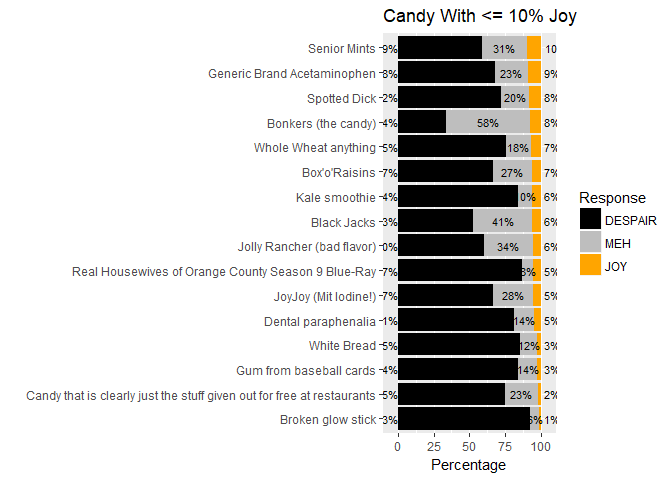
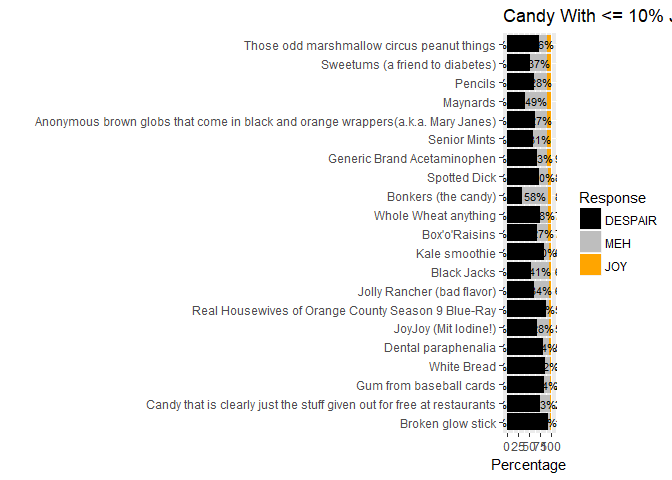
Update Intro

Changed region(s): [[0.0312, 0.0, 1.0, 1.0]]

diff --git a/candy_analysis.md b/candy_analysis.md
@@ -1,6 +1,6 @@
-Thanks to David Ng (and Jenny Bryan for sharing) at UBC publishing the candy hierarchy data (<http://www.scq.ubc.ca/so-much-candy-data-seriously/>). One candy really stood out to me that I'm interested to learn more about it. Candy Corn, as the signature candy of Halloween, I have spent my life time questing the reason that people like it because I thought most people love it.
+Thanks to David Ng (and Jenny Bryan for sharing) at UBC publishing the candy hierarchy data (<http://www.scq.ubc.ca/so-much-candy-data-seriously/>). One candy really stood out to me that I'm interested to learn more about it. Candy Corn, as the signature candy of Halloween, I have spent my life time questing the reason that people like it because I really do not understand.
 
-I'm glad to learn that I'm not alone on this. \_\_\_have mentioned it.
+I'm glad to learn that I'm not alone on the candy corn debate. [Vogue](https://www.vogue.com/article/candy-corn-love-hate) has commented that 'there is no in-between for Candy Corn, you either love it or hate it', we will see if we find that effect in this survey.
 
 Loading Packages and Reading in Data
 ------------------------------------
@@ -127,18 +127,18 @@ ggplot(results, aes(y=value, x=Item, group=Item)) +
 
 ![](candy_analysis_files/figure-markdown_github/highest%20joy-1.png)
 
-Candies Receiving Least % (&lt;= 10%) of Joy
+Candies Receiving Least % (&lt;= 11%) of Joy
 ============================================
 
 ``` r
 # reshape results
 results_10 <- table_summary$results %>% 
-  filter(JOY <= 10) # Filter to 50% JOY
+  filter(JOY <= 11) 
 results <- melt(results_10, id.vars='Item')
 results$Item <- factor(results_10$Item, levels = results_10$Item[order(results_10$JOY)]) #Sort bars from highest Joy
 
 lsum <- summary(table_summary, center = (table_summary$nlevels-1)/2 + 1) %>%
-  filter(high <= 10)
+  filter(high <= 11)
 lsum$y <- lsum$low + (lsum$neutral/2)
 # some defaults
 ymin = 0
@@ -164,6 +164,8 @@ ggplot(results, aes(y=value, x=Item, group=Item)) +
 ```
 
 ![](candy_analysis_files/figure-markdown_github/least%20joy-1.png)
+
+According to [Candy Store](https://www.candystore.com/blog/holidays/halloween/definitive-ranking-best-worst-halloween-candies/), the **worst** Halloween candy is Circus Peanuts (second worst as Candy Corn), which has also received 11% Joy and 73% Despair in this survey.
 
 We can use the following interactive plot to zoom in or out on the plot.
 
